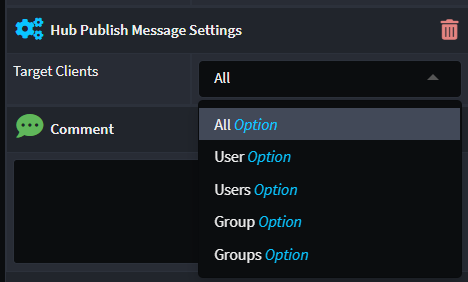
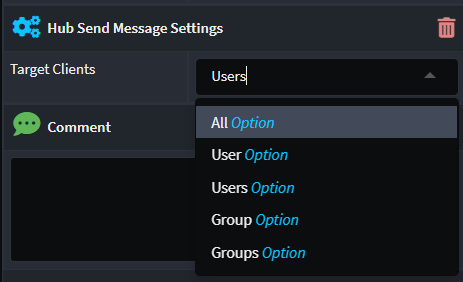
Updated stereotype for SignalR

diff --git a/Modules/Intent.Modules.AspNetCore.SignalR/Templates/HubService/HubServiceTemplatePartial.cs b/Modules/Intent.Modules.AspNetCore.SignalR/Templates/HubService/HubServiceTemplatePartial.cs
@@ -48,24 +48,24 @@ namespace Intent.Modules.AspNetCore.SignalR.Templates.HubService
                     method.Async();
                     method.AddParameter(GetTypeName(sendMessage.InternalElement.TypeReference), "model");
                     string clientTarget;
-                    switch (sendMessage.GetHubPublishMessageSettings().TargetClients().AsEnum())
+                    switch (sendMessage.GetHubSendMessageSettings().TargetClients().AsEnum())
                     {
-                        case SendMessageModelStereotypeExtensions.HubPublishMessageSettings.TargetClientsOptionsEnum.All:
+                        case SendMessageModelStereotypeExtensions.HubSendMessageSettings.TargetClientsOptionsEnum.All:
                             clientTarget = "All";
                             break;
-                        case SendMessageModelStereotypeExtensions.HubPublishMessageSettings.TargetClientsOptionsEnum.User:
+                        case SendMessageModelStereotypeExtensions.HubSendMessageSettings.TargetClientsOptionsEnum.User:
                             clientTarget = "User(userId)";
                             method.AddParameter("string", "userId");
                             break;
-                        case SendMessageModelStereotypeExtensions.HubPublishMessageSettings.TargetClientsOptionsEnum.Users:
+                        case SendMessageModelStereotypeExtensions.HubSendMessageSettings.TargetClientsOptionsEnum.Users:
                             clientTarget = "Users(userIds)";
                             method.AddParameter(UseType("System.Collections.Generic.IReadOnlyList<string>"), "userIds");
                             break;
-                        case SendMessageModelStereotypeExtensions.HubPublishMessageSettings.TargetClientsOptionsEnum.Group:
+                        case SendMessageModelStereotypeExtensions.HubSendMessageSettings.TargetClientsOptionsEnum.Group:
                             clientTarget = "Group(groupId)";
                             method.AddParameter("string", "groupId");
                             break;
-                        case SendMessageModelStereotypeExtensions.HubPublishMessageSettings.TargetClientsOptionsEnum.Groups:
+                        case SendMessageModelStereotypeExtensions.HubSendMessageSettings.TargetClientsOptionsEnum.Groups:
                             clientTarget = "Groups(groupIds)";
                             method.AddParameter(UseType("System.Collections.Generic.IReadOnlyList<string>"), "groupIds");
                             break;

diff --git a/Modules/Intent.Modules.AspNetCore.SignalR/Templates/HubServiceInterface/HubServiceInterfaceTemplatePartial.cs b/Modules/Intent.Modules.AspNetCore.SignalR/Templates/HubServiceInterface/HubServiceInterfaceTemplatePartial.cs
@@ -37,20 +37,20 @@ namespace Intent.Modules.AspNetCore.SignalR.Templates.HubServiceInterface
                 inter.AddMethod(UseType("System.Threading.Tasks.Task"), $"{operationName}", method =>
                 {
                     method.AddParameter(GetTypeName(sendMessage.InternalElement.TypeReference), "model");
-                    switch (sendMessage.GetHubPublishMessageSettings().TargetClients().AsEnum())
+                    switch (sendMessage.GetHubSendMessageSettings().TargetClients().AsEnum())
                     {
-                        case SendMessageModelStereotypeExtensions.HubPublishMessageSettings.TargetClientsOptionsEnum.All:
+                        case SendMessageModelStereotypeExtensions.HubSendMessageSettings.TargetClientsOptionsEnum.All:
                             break;
-                        case SendMessageModelStereotypeExtensions.HubPublishMessageSettings.TargetClientsOptionsEnum.User:
+                        case SendMessageModelStereotypeExtensions.HubSendMessageSettings.TargetClientsOptionsEnum.User:
                             method.AddParameter("string", "userId");
                             break;
-                        case SendMessageModelStereotypeExtensions.HubPublishMessageSettings.TargetClientsOptionsEnum.Users:
+                        case SendMessageModelStereotypeExtensions.HubSendMessageSettings.TargetClientsOptionsEnum.Users:
                             method.AddParameter(UseType("System.Collections.Generic.IReadOnlyList<string>"), "userIds");
                             break;
-                        case SendMessageModelStereotypeExtensions.HubPublishMessageSettings.TargetClientsOptionsEnum.Group:
+                        case SendMessageModelStereotypeExtensions.HubSendMessageSettings.TargetClientsOptionsEnum.Group:
                             method.AddParameter("string", "groupId");
                             break;
-                        case SendMessageModelStereotypeExtensions.HubPublishMessageSettings.TargetClientsOptionsEnum.Groups:
+                        case SendMessageModelStereotypeExtensions.HubSendMessageSettings.TargetClientsOptionsEnum.Groups:
                             method.AddParameter(UseType("System.Collections.Generic.IReadOnlyList<string>"), "groupIds");
                             break;
                         default:

diff --git a/Modules/Intent.Modules.AspNetCore.SignalR/Api/SendMessageModelStereotypeExtensions.cs b/Modules/Intent.Modules.AspNetCore.SignalR/Api/SendMessageModelStereotypeExtensions.cs
@@ -12,35 +12,35 @@ namespace Intent.AspNetCore.SignalR.Api
 {
     public static class SendMessageModelStereotypeExtensions
     {
-        public static HubPublishMessageSettings GetHubPublishMessageSettings(this SendMessageModel model)
+        public static HubSendMessageSettings GetHubSendMessageSettings(this SendMessageModel model)
         {
-            var stereotype = model.GetStereotype("Hub Publish Message Settings");
-            return stereotype != null ? new HubPublishMessageSettings(stereotype) : null;
+            var stereotype = model.GetStereotype("Hub Send Message Settings");
+            return stereotype != null ? new HubSendMessageSettings(stereotype) : null;
         }
 
 
-        public static bool HasHubPublishMessageSettings(this SendMessageModel model)
+        public static bool HasHubSendMessageSettings(this SendMessageModel model)
         {
-            return model.HasStereotype("Hub Publish Message Settings");
+            return model.HasStereotype("Hub Send Message Settings");
         }
 
-        public static bool TryGetHubPublishMessageSettings(this SendMessageModel model, out HubPublishMessageSettings stereotype)
+        public static bool TryGetHubSendMessageSettings(this SendMessageModel model, out HubSendMessageSettings stereotype)
         {
-            if (!HasHubPublishMessageSettings(model))
+            if (!HasHubSendMessageSettings(model))
             {
                 stereotype = null;
                 return false;
             }
 
-            stereotype = new HubPublishMessageSettings(model.GetStereotype("Hub Publish Message Settings"));
+            stereotype = new HubSendMessageSettings(model.GetStereotype("Hub Send Message Settings"));
             return true;
         }
 
-        public class HubPublishMessageSettings
+        public class HubSendMessageSettings
         {
             private IStereotype _stereotype;
 
-            public HubPublishMessageSettings(IStereotype stereotype)
+            public HubSendMessageSettings(IStereotype stereotype)
             {
                 _stereotype = stereotype;
             }
